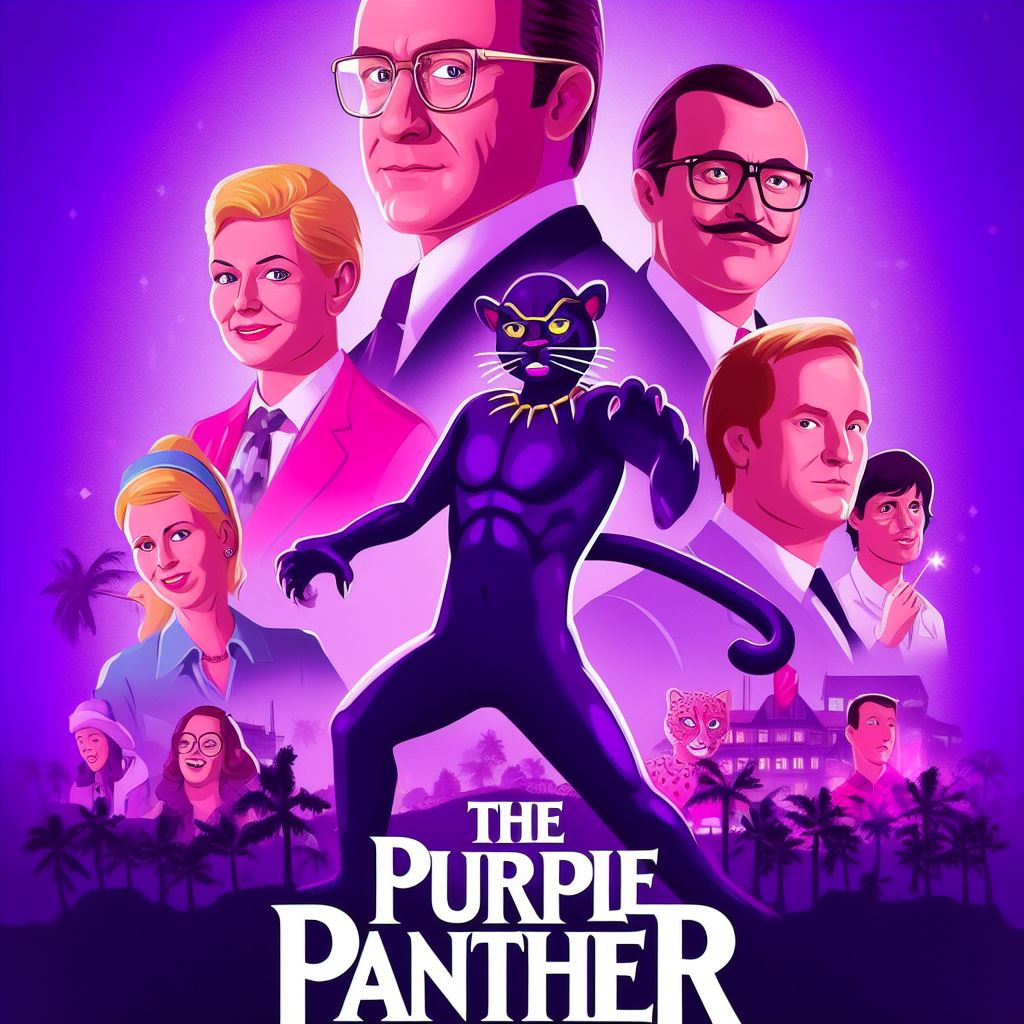
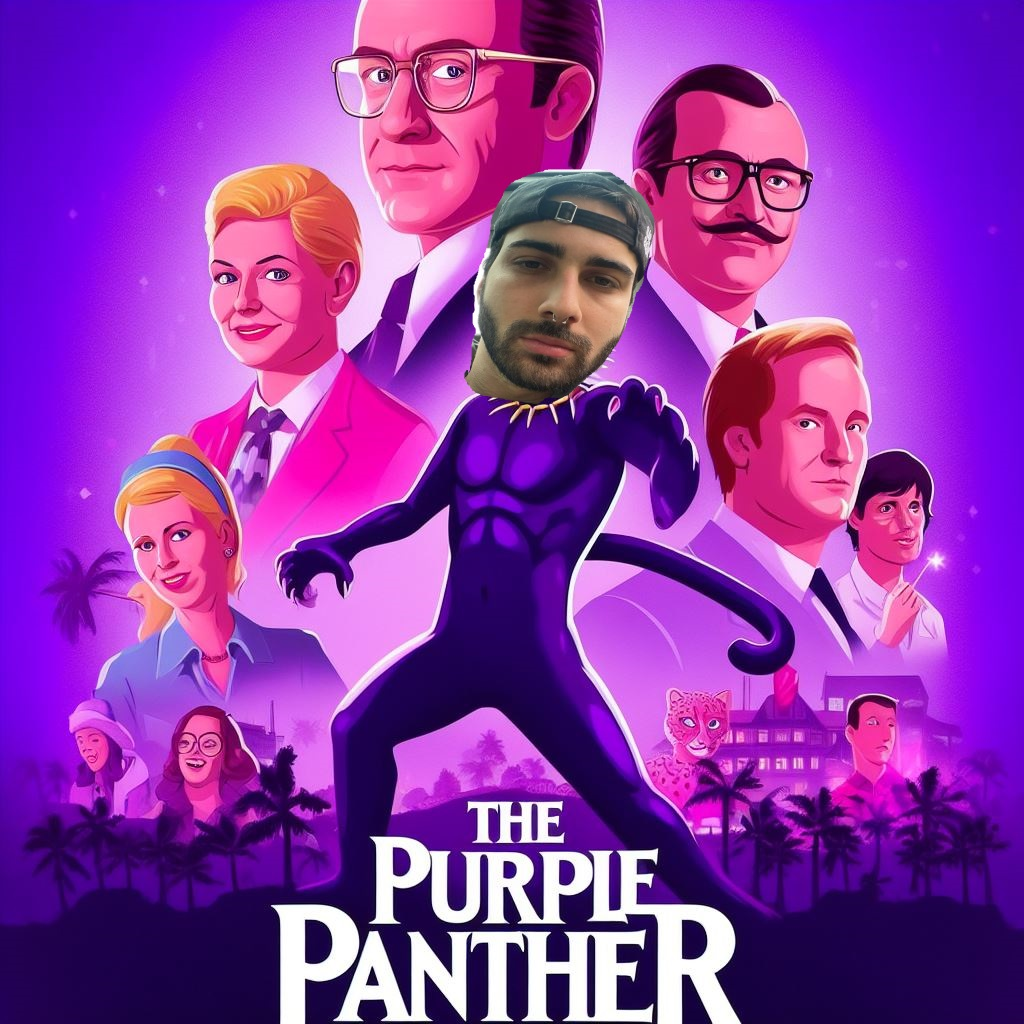
HaHaHeaven sequel

Changed region(s): [[0.4375, 0.1562, 0.6562, 0.4062]]

diff --git a/students/vaitsopoulou/vaitsopoulou.html b/students/vaitsopoulou/vaitsopoulou.html
@@ -236,7 +236,7 @@
                     <a href="../papangelis/papangelis.html"><button class="team-button">
                         &lt; Go to Dimitris' page</button>
                     </a>
-                    <a href="../../index.html"><button class="team-button">
+                    <a href="../../html/about.html"><button class="team-button">
                         Return to HaHaHeaven
                     </button></a>
                     <a href="../chatzivasileiadou/chatzivasileiadou.html"><button class="team-button">
@@ -264,7 +264,7 @@
             </div>
             <div class="email">
                 <p>Contact me at: <br> <p><a href="mailto:vvaitsopoulou@york.citycollege.eu">vvaitsopoulou@york.citycollege.eu</a></p> 
-                </p>
+                
             </div>            
         </footer>
         

diff --git a/html/comedy/purplePanther/purplePanther.html b/html/comedy/purplePanther/purplePanther.html
@@ -169,7 +169,7 @@
 
                      <div class = "movie-infos"> 
                             <h2>
-                            My Big Fat Greek Funeral
+                            The Purple Panther
                             </h2>
 
 
